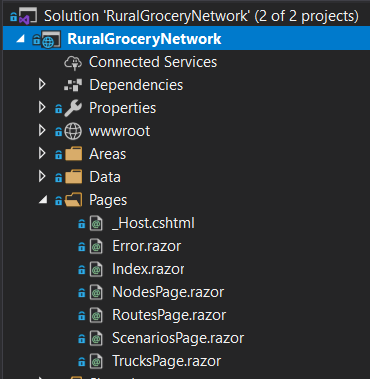
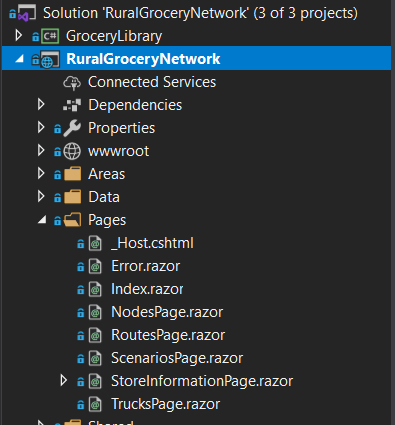
Added more screenshots and also more information in the Developer Documentation.

Changed region(s): [[0.0, 0.0, 1.0, 1.0]]

diff --git a/userdoc/developer-documentation.md b/userdoc/developer-documentation.md
@@ -9,6 +9,13 @@ since it is useful for building web applications.
 
 Link to blazor installation guide: https://docs.microsoft.com/en-us/aspnet/core/blazor/get-started?view=aspnetcore-3.1&tabs=visual-studio
 
+### Website Deployment
+
+Our Web Application is currently setup to deploy using Microsoft's Azure App Service.
+
+Click here for a guide on Deployment: https://docs.microsoft.com/en-us/azure/app-service/deploy-continuous-deployment
+
+
 ### SQL Server
 For storing data for the website, we are using a SQL Server that is stored locally with the project, then deployed
 with the project through Microsoft Azure onto the web. You will need to download SQL Server in order to run
@@ -41,14 +48,22 @@ Let us look at some examples in our project. First let us look at ScenarioPages.
 
 ![Scenarios Page Code](img/scenarios-page-code.PNG)
 
-Razor pages use syntatic sugar to help define parts of a web page. '@page' defines the route that this page will be on the website, so the route will look like: 'https://ruralgrocerynetwork.azurewebsites.net/scenarios' when on this specific web page. @inject "injects" a dependency for the page, which in this case is a Class used to hold our Scenario data. @code is the area where we implement our C# code to make the webpage function, which for this page it currently doesn't have any additional functionality yet. Aside from that, We also build the page using HTML, while utilizing a built-in Blazor feature called 'AuthorizeView', which is a blazor HTML tag that hides parts of a web page depending on if a user is authenticated/authorized on that page or not.
+Razor pages use syntatic sugar to help define parts of a web page. '@page' defines the route that this page will be on the website, 
+so the route will look like: 'https://ruralgrocerynetwork.azurewebsites.net/scenarios' when on this specific web page. 
+@inject "injects" a dependency for the page, which in this case is a Class used to hold our Scenario data. 
+@code is the area where we implement our C# code to make the webpage function, which for this page 
+it currently doesn't have any additional functionality yet. Aside from that, We also build the page using HTML, 
+while utilizing a built-in Blazor feature called 'AuthorizeView', which is a blazor HTML tag that hides parts of a web page 
+depending on if a user is authenticated/authorized on that page or not.
 
 Next, let us look at our NavMenu Component in NavMenu.Razor:
 ![NavMenu1](img/nav-menu-code-1.PNG)
 ![NavMenu2](img/nav-menu-code-2.PNG)
 
 This component builds the Navigation Menu for our site, which allows us to view the different pages without memorizing the page routes.
-Here we can see that it Utilizes "AuthorizeView" tags to hide it from unathorized users, and also another new feature called NavLink which is a tag that allows us to link an element to one of the other pages on the website, using the route name for that page (the element defined in @page). This Component also has C# in the @code section in order to control the Nav Menu from expanding and collapsing.
+Here we can see that it Utilizes "AuthorizeView" tags to hide it from unathorized users, and also another new feature called NavLink 
+which is a tag that allows us to link an element to one of the other pages on the website, using the route name for that page 
+(the element defined in @page). This Component also has C# in the @code section in order to control the Nav Menu from expanding and collapsing.
 
 This page ends up looking like this:
 ![Scenarios Page](img/scenarios-page.PNG)
@@ -59,13 +74,54 @@ More info. On Razor syntax: https://docs.microsoft.com/en-us/aspnet/core/mvc/vie
 
 ### Important Files
 A major focus of this project is the individual pages, as well as the Components and Data that is associated with those pages.
-The pages can be accessed from the RuralGroceryNetwork/Pages directory like so:
+The pages can be accessed from the RuralGroceryNetwork/Pages directory:
 
 ![Pages Directory](img/directory-pages.PNG)
 
-This directory contains 5 razor pages, along with an Error Page for when the pages don't work properly and a .cshtml for styling these pages. The 5 pages we currently have are:
+This directory contains 6 razor pages, along with an Error Page for when the pages don't work properly and a .cshtml for styling these pages. 
+The pages we currently have are:
 - Index.razor
 - NodesPage.razor
 - RoutesPage.razor
 - ScenariosPage.razor
 - TrucksPage.razor
+- StoreInformationPage.razor
+
+Our pages also integrate other components within them. Some examples of these kinds of components include the Website's Navigation Menu, 
+The website's main layout, among other things. These components can be found in the RuralGroceryNetwork/Shared Directory:
+
+![Shared Directory](img/directory-shared.PNG)
+
+### Data Binding and Event Handling:
+
+Click these links for detailed explanations for data binding and event handling in blazor:
+data binding: https://docs.microsoft.com/en-us/aspnet/core/blazor/data-binding?view=aspnetcore-3.1
+event handling: https://docs.microsoft.com/en-us/aspnet/core/blazor/event-handling?view=aspnetcore-3.1
+
+An important aspect of blazor is that you can bind variables, methods, and events to various html elements.
+This allows us to have modifiable data within HTML, from input data to even changing the attributes/css within
+different tags.
+
+Here are some examples from StoreInformationPage.razor:
+
+HTML Element:
+![html binding](img/binding-html.PNG)
+![Collapse State](img/binding-fieldsTwo
+
+Text Input:
+![Text Input](img/binding-text.PNG)
+![Text Field](img/binding-textField.PNG)
+![Edit States](img/binding-fieldsOne.PNG)
+
+Checkbox Input:
+![Checkbox Input](img/binding-checkbox.PNG)
+![Checkbox Field & Update](img/binding-checkboxField.PNG)
+
+### Other Helpful Resources:
+
+HTML/CSS:
+- w3schools: https://www.w3schools.com/
+
+
+
+
